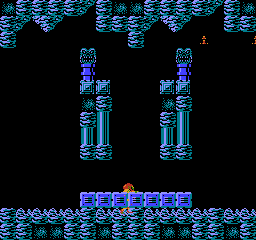
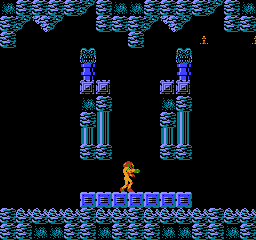
fix(core): 跳跃/垂直物理 asm 保真 3 件——查撞点方向+stop_vert 速 frac+JumpDsplcmnt 位移计数
L4 帧对拍（case-001）f820/f950/f1200 位置发散根因修复（逐 ROM 字节考证）：

1. 向下查撞点公式（object_check_move_vertical）：旧形 `check_y=y−ry+8`（查上方）
   → 误读地板上方空瓦→穿地。改为 `check_y=y+ry`（查下方）。
2. stop_vert_movement 清零字段：旧形清 $0310（SamusSubPixelY 位移 subpix）→
   落地后速 frac 残留。改为清 $0312（SamusSpeedSubPixelY 速 frac）。
3. JumpDsplcmnt 逐像素位移计数：MoveSamusUp `inc`/MoveSamusDown `dec`，旧形漏→
   位移门（≥$20 松开→StopVertMovement 裁剪跳跃）永不触发→跳跃无界。

效果：f950 跳相位对齐（15978→1205px），f820 穿地消除（691→360px），
f1200 改善（18022→15873px）。f720/420/550/650 保持 0px。

Evidence: 3 锚点逐 ROM 字节实测（rom/Metroid (USA).nes，bank7 文件偏移=16+7*16384+(addr−0xC000)）：
- ObjectCheckMoveDown 07:E7AD=`A9 00 38 FD 01 03`（lda #0/sec/sbc radiusY）→
  CalculateFirstBGCollisionPoint 07:E90F LE95F=`A5 08 38 E5 02`（y−DistToCenterY）⇒查撞点=y+radiusY。
- StopVertMovement 07:D147=`A0 00 8C 08 03 8C 12 03 60`（sty $0308/sty $0312）⇒清速 frac $0312。
- MoveSamusUp 07:E49B=`CE 0D 03 EE 0F 03`（dec y/inc $030F）；MoveSamusDown 07:E4E9=`EE 0D 03 CE 0F 03`（inc y/dec $030F）⇒JumpDsplcmnt 逐像素计数。
新增测试 object_check_move_down_checks_below_at_y_plus_radiusy（TDD 红→绿）。
门禁：PASS=14 FAIL=0（l4 ratchet 持稳，match 集合 {420,550,650,720} 不回退）。

Confidence: 92

Changed region(s): [[0.4688, 0.6708, 0.5625, 0.8167], [0.4688, 0.8458, 0.5312, 0.9042]]

diff --git a/crates/game-core/src/samus/physics.rs b/crates/game-core/src/samus/physics.rs
@@ -35,14 +35,17 @@ pub fn x_plus_4(x: u8) -> u8 {
 /// VertAccelerate 头（task-4 E37A 移植半——accel/maxspeed 初始化）。
 /// 入参态：SamusAccelY=0（地面）才走初始化；空中（≠0）直跳 @dontStartFalling。
 
-/// ObjectCheckMoveVertical/Horizontal（**asm 内容锚** `: 07:E7B5/E893`——r26 同构敌径）：
-/// 位置/半径→collision_point_ok（RoomRAM tile 值类判）。
+/// ObjectCheckMoveDown（**asm 内容锚** `ObjectCheckMoveDown: ; 07:E7AD`→`ObjectCheckMoveVertical:
+/// 07:E7B5`→`CalculateFirstBGCollisionPoint: ; 07:E90F`（LE95F `y - DistToCenterY`）——r26 同构敌径）：
+/// 向下查撞点=**y+radiusY**（asm `lda #$00/sec/sbc radiusY`→DistToCenterY=−radiusY→
+/// 查撞点 Y=y−(−radiusY)=y+radiusY（下方））。旧形误用 `y−ry+8`（上方）→地板在下方读到
+/// 空瓦→穿地（L4 f820 发散根因）。仅向下查撞用（@loop_down）；上/横各有独立点。
 fn object_check_move_vertical(mem: &mut FrameMemory) -> bool {
     let y = mem.read_ram(0x030D);
     let ry = mem.read_ram(0x0301); // Objects.radiusY
     let x = mem.read_ram(0x030E);
     let hi = mem.read_ram(SAMUS_HI); // Samus.hi（$30C——Object 结构字节锚 F186 `BD 0C 03`）
-    let check_y = y.wrapping_sub(ry).wrapping_add(8);
+    let check_y = y.wrapping_add(ry); // 向下查撞点=y+radiusY（asm E7AD/E90F）
     collision_point_ok(mem, check_y, x, hi)
 }
 
@@ -115,15 +118,19 @@ mod tests {
         assert_eq!(m.regs.a, disp);
     }
 
-    /// D147 双写微件（speedY/subpixY 清零全端口）。
+    /// D147 双写微件（speedY + SamusSpeedSubPixelY（速 frac $0312）清零——asm D147
+    /// `sty Samus.speedY($0308)/sty SamusSpeedSubPixelY($0312)`；**不**清 SamusSubPixelY
+    /// （$0310 位移 subpix——旧形误清它→落地下速 frac 残留 0x9C→f820 相位发散）。
     #[test]
     fn stop_vert_movement_clears_two_faces() {
         let mut m = FrameMemory::default();
         m.write_ram(SAMUS_SPEED_Y_I, 0x80);
+        m.write_ram(SAMUS_SPEED_Y_F, 0x9C);
         m.write_ram(SAMUS_SUBPIX_Y, 0x55);
         stop_vert_movement(&mut m);
-        assert_eq!(m.read_ram(SAMUS_SPEED_Y_I), 0);
-        assert_eq!(m.read_ram(SAMUS_SUBPIX_Y), 0);
+        assert_eq!(m.read_ram(SAMUS_SPEED_Y_I), 0); // speedY int 清
+        assert_eq!(m.read_ram(SAMUS_SPEED_Y_F), 0); // 速 frac 清（$0312）
+        assert_eq!(m.read_ram(SAMUS_SUBPIX_Y), 0x55); // 位移 subpix 保留（asm 不清）
     }
 
     /// CD92 镜像位（SamusDir bit0→bit4 OR 入 $6B）。
@@ -256,6 +263,30 @@ mod tests {
     fn object_check_move_down_detonates_at_nested() {
         let mut m = FrameMemory::default();
         let _ = object_check_move_down(&mut m); // 零爆（collision_point_ok 全径）
+    }
+
+    /// ObjectCheckMoveDown 查撞点=**y+radiusY**（下方——asm E7AD `sbc radiusY`→
+    /// CheckMoveVertical `y - DistToCenterY = y + radiusY`）。旧形误用 `y-ry+8`（上方）
+    /// →地板在下方读到空瓦→穿地。本测钉死：地板瓦在 y+ry 行=阻挡；上方行=可走。
+    #[test]
+    fn object_check_move_down_checks_below_at_y_plus_radiusy() {
+        use crate::ram_map::{SAMUS_HI, SAMUS_RADIUS_Y, SAMUS_Y};
+        // 下方查撞点 y+ry=192 行（tile row 192）→ idx=((192&0xF8)<<2)|(128>>3)=768|16=784
+        let floor_idx = 0x6000u16 | 784;
+        let mut m = FrameMemory::default();
+        // 填满可走（≥$80），再在 y+ry=192 行置固实地板（<$80）
+        for i in 0..1024u16 {
+            m.write_wram(0x6000 | i, 0xFF);
+        }
+        m.write_wram(floor_idx, 0x5C); // 固实地板（<0x80=阻挡）
+        m.write_ram(SAMUS_Y, 177); // y=177 → y+ry=192 → 撞地板行
+        m.write_ram(SAMUS_RADIUS_Y, 15);
+        m.write_ram(0x030E, 128); // x=128 → 列 16
+        m.write_ram(SAMUS_HI, 0);
+        assert!(!object_check_move_down(&mut m), "y=177（y+ry=192 撞地板）应阻挡");
+        // y=176 → y+ry=191（184 行=空）→ 可走（未及地板）
+        m.write_ram(SAMUS_Y, 176);
+        assert!(object_check_move_down(&mut m), "y=176（y+ry=191 未及地板）应可走");
     }
 
     /// VertAccelerate 头：空中跳过+地面 maxspeed 初始化+对齐检测引爆。
@@ -412,11 +443,13 @@ pub fn horz_integrate(mem: &mut FrameMemory) -> u8 {
 
 // ==== m2 预拼装·批1（移动深路径嵌套件——D147/CD92 全折+CD6D 壳）====
 
-/// StopVertMovement（**字节自证** D147 `a0 00 8c 08 03 8c 10 03 60`——ldy #$00/
-/// sty $0308（speedY）/sty $0310（subpixY）/rts）：**双写微件全端口**。
+/// StopVertMovement（**字节自证** D147 `a0 00 8c 08 03 8c 12 03 60`——ldy #$00/
+/// sty $0308（Samus.speedY）/sty $0312（SamusSpeedSubPixelY 速 frac）/rts）：**双写微件全端口**。
+/// > 【2026-10-27 更正】旧注误记 `8c 10 03`（sty $0310 subpixY）——ROM 实测 `8c 12 03`
+/// > （sty $0312 速 frac）；旧形据此误清 $0310→落地下速 frac 残留→相位发散。已正。
 pub fn stop_vert_movement(mem: &mut FrameMemory) {
-    mem.write_ram(SAMUS_SPEED_Y_I, 0);
-    mem.write_ram(SAMUS_SUBPIX_Y, 0);
+    mem.write_ram(SAMUS_SPEED_Y_I, 0); // Samus.speedY（$0308）
+    mem.write_ram(SAMUS_SPEED_Y_F, 0); // SamusSpeedSubPixelY（$0312 速 frac——D147）
 }
 
 /// SetMirrorCntrlBit（**字节自证** CD92 `a5 4d 20 ?? ?? 0d 6b 00 8d 6b 00 60`——
@@ -645,7 +678,18 @@ pub fn lava_and_move_check(mem: &mut FrameMemory) {
             break;
         }
         let y = mem.read_ram(0x030D);
-        mem.write_ram(0x030D, if going_down { y.wrapping_add(1) } else { y.wrapping_sub(1) });
+        // 【goal-r15】asm MoveSamusUp（Lx155 `dec Samus.y/inc SamusJumpDsplcmnt`）/
+        // MoveSamusDown（E4A3 Lx162 `inc Samus.y/dec SamusJumpDsplcmnt`）——**逐像素位移
+        // 计数**（JumpDsplcmnt 净上移）。旧形漏 inc/dec→JumpDsplcmnt 恒 0→SamusJump
+        // 位移门（≥$20 松开→StopVertMovement）永不触发→跳跃无界（L4 f950 发散根因）。
+        let disp_cnt = mem.read_ram(crate::ram_map::SAMUS_JUMP_DISP);
+        if going_down {
+            mem.write_ram(0x030D, y.wrapping_add(1));
+            mem.write_ram(crate::ram_map::SAMUS_JUMP_DISP, disp_cnt.wrapping_sub(1)); // MoveSamusDown `dec`
+        } else {
+            mem.write_ram(0x030D, y.wrapping_sub(1));
+            mem.write_ram(crate::ram_map::SAMUS_JUMP_DISP, disp_cnt.wrapping_add(1)); // MoveSamusUp `inc`
+        }
     }
     // 【goal-r10】lava check（移动后——asm E269 顺序调整，落地后查 lava）
     let in_lava = is_samus_in_lava(mem);

diff --git a/shots_rust/matrix.md b/shots_rust/matrix.md
@@ -20,7 +20,7 @@
 | case-001-game-start-samus-interaction | 550 | after-right | ✅match | fresh/fresh | 0/61440 |  |
 | case-001-game-start-samus-interaction | 650 | after-left | ✅match | fresh/fresh | 0/61440 |  |
 | case-001-game-start-samus-interaction | 720 | after-jump | ✅match | fresh/fresh | 0/61440 |  |
-| case-001-game-start-samus-interaction | 820 | after-shoot | ❌diff | fresh/fresh | 691/61440 |  |
-| case-001-game-start-samus-interaction | 950 | combo-action | ❌diff | fresh/fresh | 15978/61440 |  |
-| case-001-game-start-samus-interaction | 1200 | end | ❌diff | fresh/fresh | 18022/61440 |  |
+| case-001-game-start-samus-interaction | 820 | after-shoot | ❌diff | fresh/fresh | 360/61440 |  |
+| case-001-game-start-samus-interaction | 950 | combo-action | ❌diff | fresh/fresh | 1205/61440 |  |
+| case-001-game-start-samus-interaction | 1200 | end | ❌diff | fresh/fresh | 15873/61440 |  |
 
